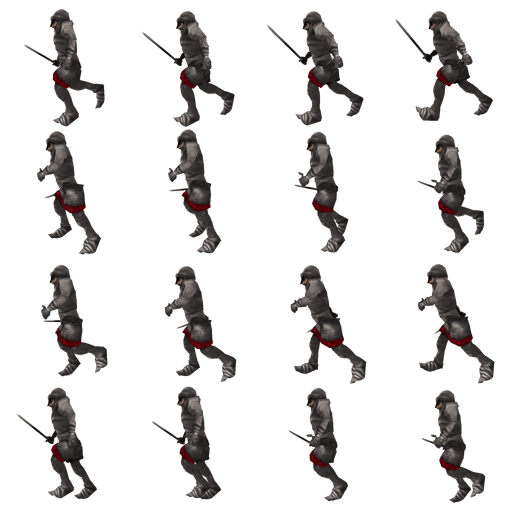
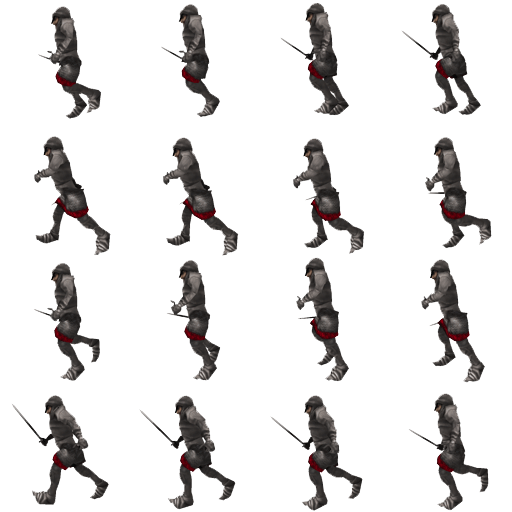
added knight class with some shitty enemy logic

diff --git a/BeatEmUp/BeatEmUp/source/Rock.cpp b/BeatEmUp/BeatEmUp/source/Rock.cpp
@@ -2,13 +2,13 @@
 
 
 Rock::Rock(const string& file, SDL_Renderer* const renderer)
- : GameObject(1) 
+ : GameObject() 
  , texture(NULL)
 {
 	util::SDLSurfaceFromFile surf(file, true);
 	texture = SDL_CreateTextureFromSurface(renderer, surf.surface);
 	
-	position.x = 800;
+	position.x = 800 * 5;
 	position.y = 410;
 	position.w = surf.surface->w;
 	position.h = surf.surface->h;
@@ -47,3 +47,84 @@ Rock::~Rock()
 
 	logPrintf("Rock object released");
 }
+
+
+
+Knight::Knight(SDL_Renderer* const renderer)
+	: GameObject(1, Left)	
+	, walkRight(NULL)
+	, walkLeft(NULL)
+	, current(NULL)
+{
+	position.x  = 1000, position.y = 400, position.w = 128, position.h = 128; 
+	moveBounds.x = 0, moveBounds.y = 370;
+	moveBounds.w = 800 - position.w, moveBounds.h = position.h;
+
+	walkRight = Sprite::FromFile("resources/knightwalk_right.png", renderer, 128, 128, 5, 15);
+	walkLeft = Sprite::FromFile("resources/knightwalk_left.png", renderer, 128, 128, 5, 3);
+
+	if(walkRight) SetDirection(Left);
+}
+
+
+
+void Knight::Update()
+{
+	xVel = -1;
+	Translate(true);
+
+	//Propagate to the underlying currently active sprite
+	current->Pos().x = position.x;
+	current->Pos().y = position.y;
+	current->Update();
+}
+
+
+void Knight::Draw(SDL_Renderer* const renderer) const
+{
+	current->Draw(renderer);
+}
+
+
+Knight::~Knight()
+{
+	util::Delete(walkRight);
+	util::Delete(walkLeft);
+
+	logPrintf("Knight object released");
+}
+
+
+void Knight::SetDirection(Directions dir)
+{
+	GameObject::SetDirection(dir);
+	if (GetDirection() == Right) current = walkRight;
+	else if(GetDirection() == Left) current = walkLeft;
+}
+
+
+void Knight::Stop()
+{
+	position.x -= xVel;
+	position.y -= yVel;
+	xVel = yVel = 0;
+	current->SetStill();
+}
+
+
+void Knight::Follow(const GameObject& followed)
+{
+	//position.x = followed.Position().x + 10;
+	//position.y = followed.Position().y - 10;
+	Translate();
+}
+
+
+void Knight::Translate(bool anim)
+{
+	current->SetAnimation(anim);
+	position.x += xVel;
+	position.y += yVel;
+	//logPrintf("Translate: Pos {%d, %d}", position.x, position.y); 
+}
+

diff --git a/BeatEmUp/BeatEmUp/source/Player.cpp b/BeatEmUp/BeatEmUp/source/Player.cpp
@@ -13,16 +13,16 @@ Player::Player(SDL_Renderer* const renderer)
 	, walkRight(NULL)
 	, walkLeft(NULL)
 	, current(NULL)
-	, xVel(0)
-	, yVel(0)
 	, jumpState(JS_Ground)
 {
 	position.x  = 100, position.y = 400, position.w = 76, position.h = 120; 
 	moveBounds.x = 0, moveBounds.y = 370;
 	moveBounds.w = 800 - position.w, moveBounds.h = position.h;
 
-	walkRight = Sprite::FromFile("resources/walkright.png", renderer, 76, 120, 5, 1);
-	walkLeft = Sprite::FromFile("resources/walkleft.png", renderer, 76, 120, 5, 1);
+	walkRight = Sprite::FromFile("resources/walkright.png", renderer, 76, 120, 5, 1, 0xFF, 0x40, 0x40);
+	walkLeft = Sprite::FromFile("resources/walkleft.png", renderer, 76, 120, 5, 1, 0xFF, 0x40, 0x40);
+	//walkRight = Sprite::FromFile("resources/knightwalk_right.png", renderer, 128, 128, 5, 15);
+	//walkLeft = Sprite::FromFile("resources/knightwalk_left.png", renderer, 128, 128, 5, 3);
 
 	if(walkRight) SetDirection(Right);
 }

diff --git a/BeatEmUp/BeatEmUp/include/GameObject.h b/BeatEmUp/BeatEmUp/include/GameObject.h
@@ -16,8 +16,12 @@ enum Directions
 class GameObject
 {
 public:
-	GameObject(int health_, Directions initialDirection = Right) 
-		: health(health_), direction(initialDirection), angle(0)
+	GameObject(int health_ = 1, Directions initialDirection = Right) 
+		: health(health_)
+		, direction(initialDirection)
+		, xVel(0)
+		, yVel(0)
+		, angle(0)
 	{}
 
 	virtual void Update() = 0;
@@ -25,7 +29,7 @@ public:
 	virtual ~GameObject(){}
 
 	//Accessors
-	__forceinline RectF& Position() { return position; }
+	__forceinline const RectF& Position() const { return position; }
 	__forceinline Directions GetDirection() const { return direction; }
 	__forceinline bool IsDead() const { return health <= 0; }
 
@@ -39,7 +43,9 @@ public:
 
 protected:
 	RectF position;
+	float xVel, yVel;
 	double angle; //rotation angle
+	SDL_Rect moveBounds;
 
 private:
 	int health;

diff --git a/BeatEmUp/BeatEmUp/source/main.cpp b/BeatEmUp/BeatEmUp/source/main.cpp
@@ -20,6 +20,7 @@ private:
 	Background* bg;
 	Player* player;
 	Rock* rock;
+	Knight* knight;
 
 	bool leftDown;
 	bool rightDown;
@@ -53,10 +54,12 @@ public:
 		bg = new Background(clientWidth_, clientHeight_, renderer_);
 		player = new Player(renderer_);
 		rock = new Rock("resources/rock.png", renderer_);
+		knight = new Knight(renderer_);
 
 		gameObjects.push_back(bg);
 		gameObjects.push_back(player);
 		gameObjects.push_back(rock);
+		gameObjects.push_back(knight);
 
 		return true;
 	}
@@ -134,7 +137,13 @@ public:
 		if(player->CollidesWith(*rock))
 		{
 			logPrintf("COLLISION!");
-			rock->Position().x = 900;
+			//rock->Position().x = 900;
+		}
+
+		//knight follows player
+		if(knight)
+		{
+			knight->Follow(*player);
 		}
 
 		//Other game logic

diff --git a/BeatEmUp/BeatEmUp/include/Sprite.h b/BeatEmUp/BeatEmUp/include/Sprite.h
@@ -40,9 +40,10 @@ public:
 	__forceinline void SetStill() { currentFrame = stillFrame; animationRunning = false; }
 
 	static inline Sprite* FromFile(string filename, SDL_Renderer* const renderer, 
-		int frameWidth, int frameHeight, int frameSpeed, int stillFrame)
+		int frameWidth, int frameHeight, int frameSpeed, int stillFrame
+		, Uint8 colKeyR = 0x00, Uint8 colKeyG = 0x00, Uint8 colKeyB = 0x00)
 	{
-		util::SDLSurfaceFromFile surface(filename, true, 0xFF, 0x40, 0x40);
+		util::SDLSurfaceFromFile surface(filename, true, colKeyR, colKeyG, colKeyB);
 		return new Sprite(surface.surface, renderer, frameWidth, frameHeight, frameSpeed, stillFrame);
 	}
 

diff --git a/BeatEmUp/BeatEmUp/include/Rock.h b/BeatEmUp/BeatEmUp/include/Rock.h
@@ -1,6 +1,6 @@
 #pragma once
 #include "GameObject.h"
-
+#include "Sprite.h"
 
 class Rock : public GameObject
 {
@@ -15,3 +15,29 @@ private:
 	SDL_Texture* texture;
 };
 
+
+#pragma once
+#include "Sprite.h"
+
+
+class Knight : public GameObject
+{
+public:
+	Knight(SDL_Renderer* const renderer);
+	virtual void Update() override;
+	virtual void Draw(SDL_Renderer* const renderer) const override;
+	virtual ~Knight();
+	virtual void SetDirection(Directions dir) override;
+
+	void Follow(const GameObject& followed);
+	void Stop();
+
+private:
+	void Translate(bool anim = true);
+
+
+private:
+	Sprite* walkRight;
+	Sprite* walkLeft;
+	Sprite* current;
+};

diff --git a/BeatEmUp/BeatEmUp/source/Sprite.cpp b/BeatEmUp/BeatEmUp/source/Sprite.cpp
@@ -5,7 +5,7 @@
 
 Sprite::Sprite(SDL_Surface* const spriteSheet, SDL_Renderer* const renderer, 
 	int frameWidth, int frameHeight, int frameSpeed_, int stillFrame_)
-	: GameObject(1, Right)
+	: GameObject()
 	, sheet(NULL)
 	, frameSpeed(frameSpeed_)
 	, stillFrame(stillFrame_)

diff --git a/BeatEmUp/BeatEmUp/include/Player.h b/BeatEmUp/BeatEmUp/include/Player.h
@@ -36,8 +36,6 @@ private:
 	Sprite* walkLeft;
 	Sprite* current;
 
-	float xVel, yVel;
-	SDL_Rect moveBounds;
 	JumpState jumpState;
 	VectF jumpLocation;
 	static const float Gravity;
